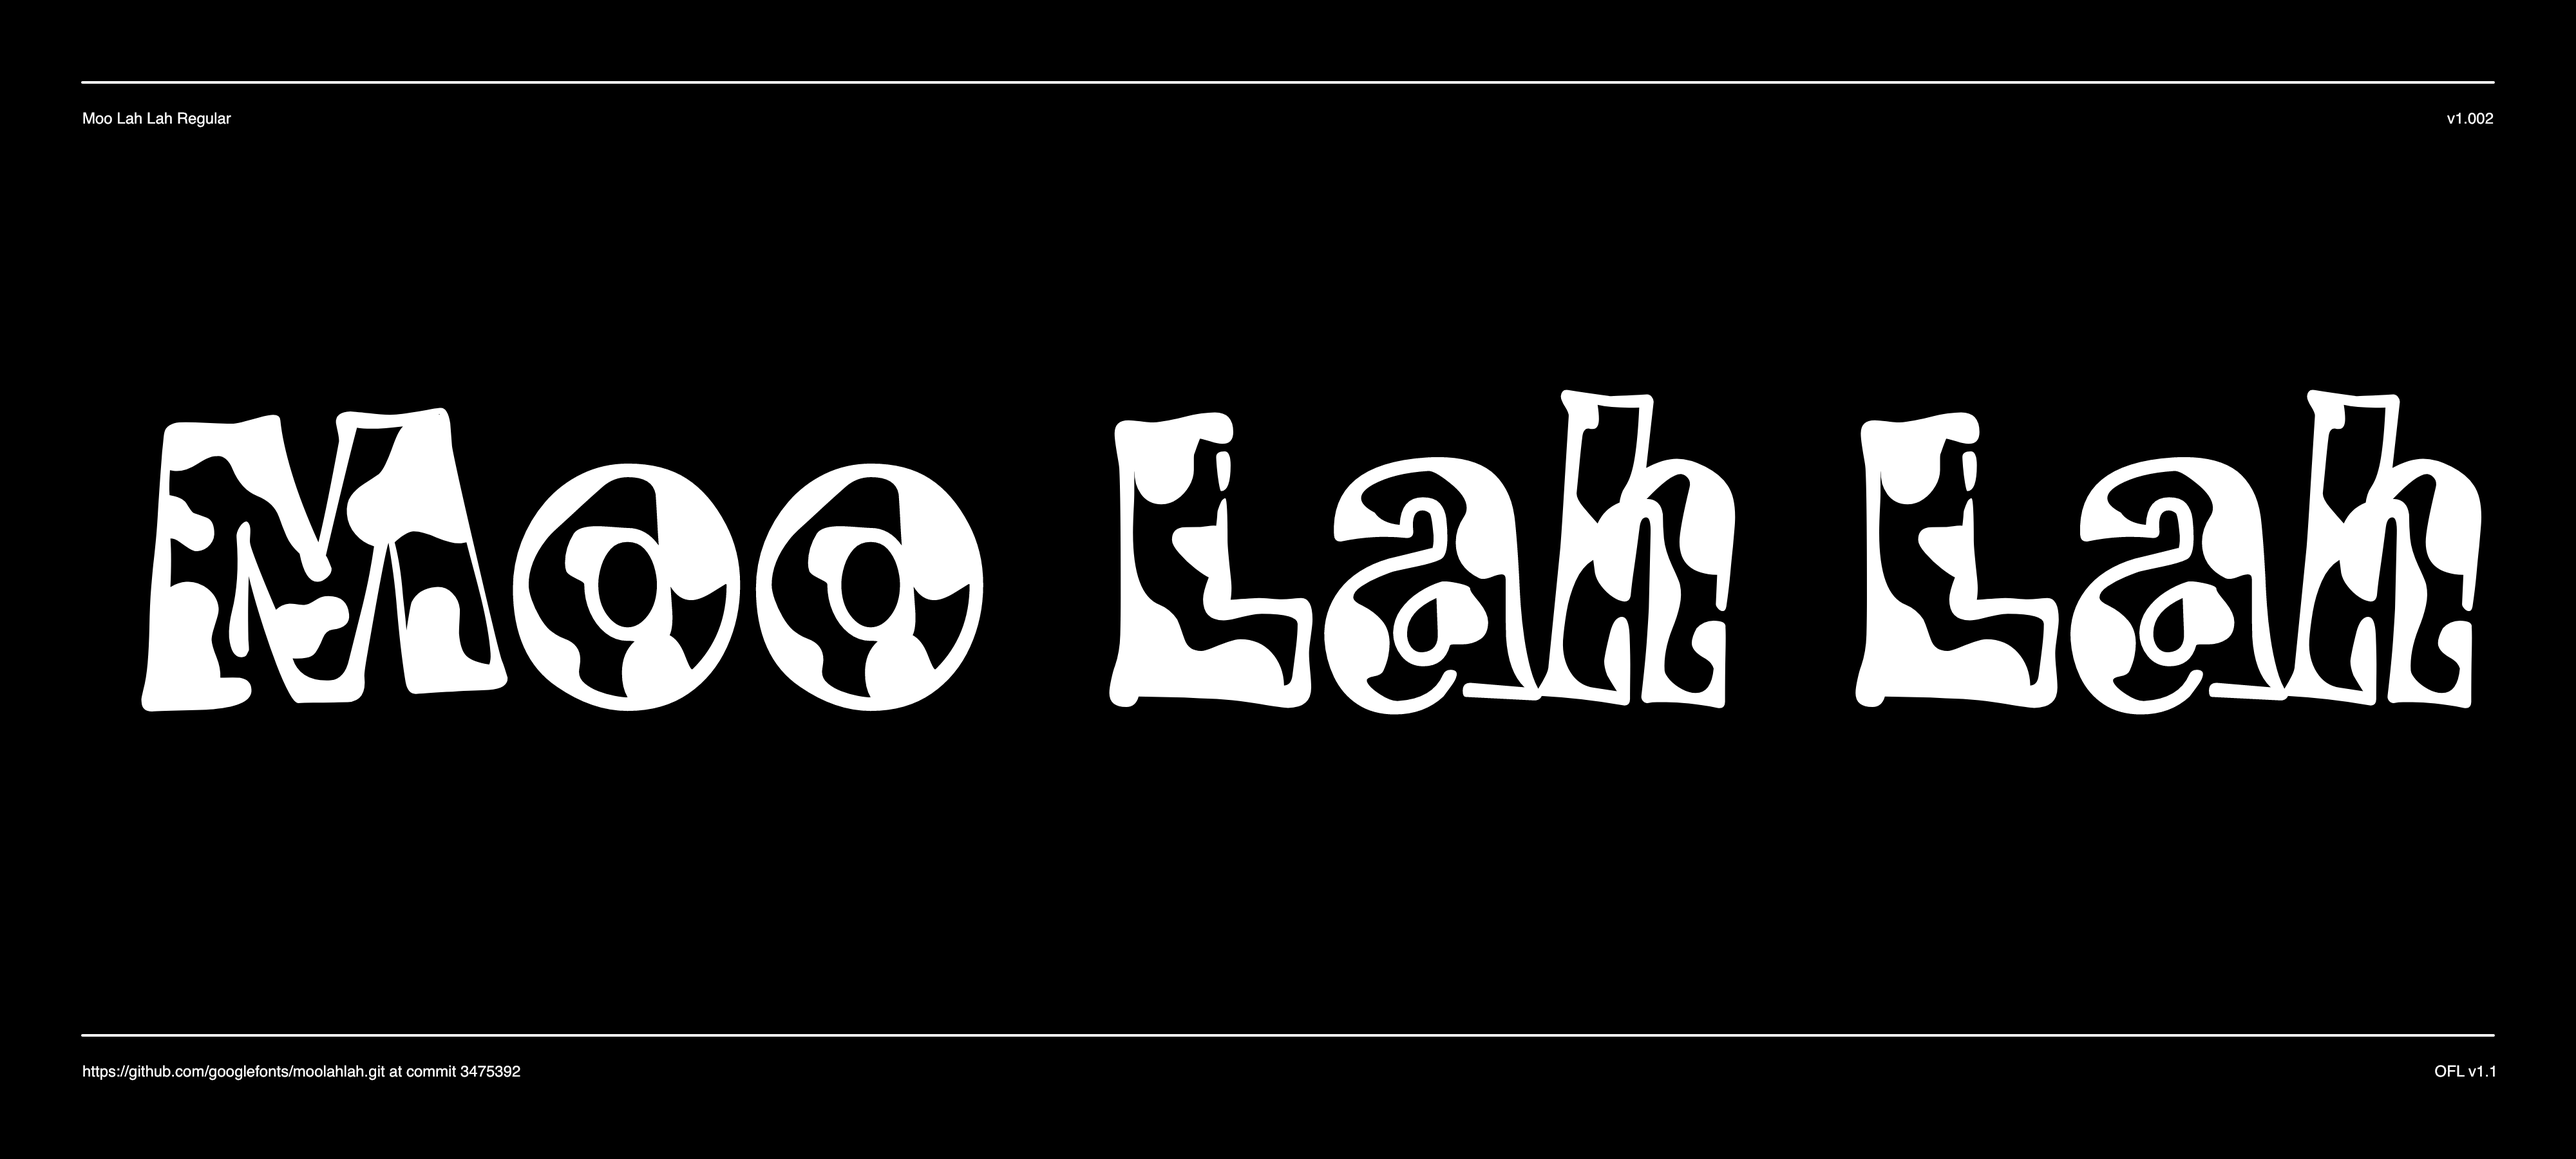
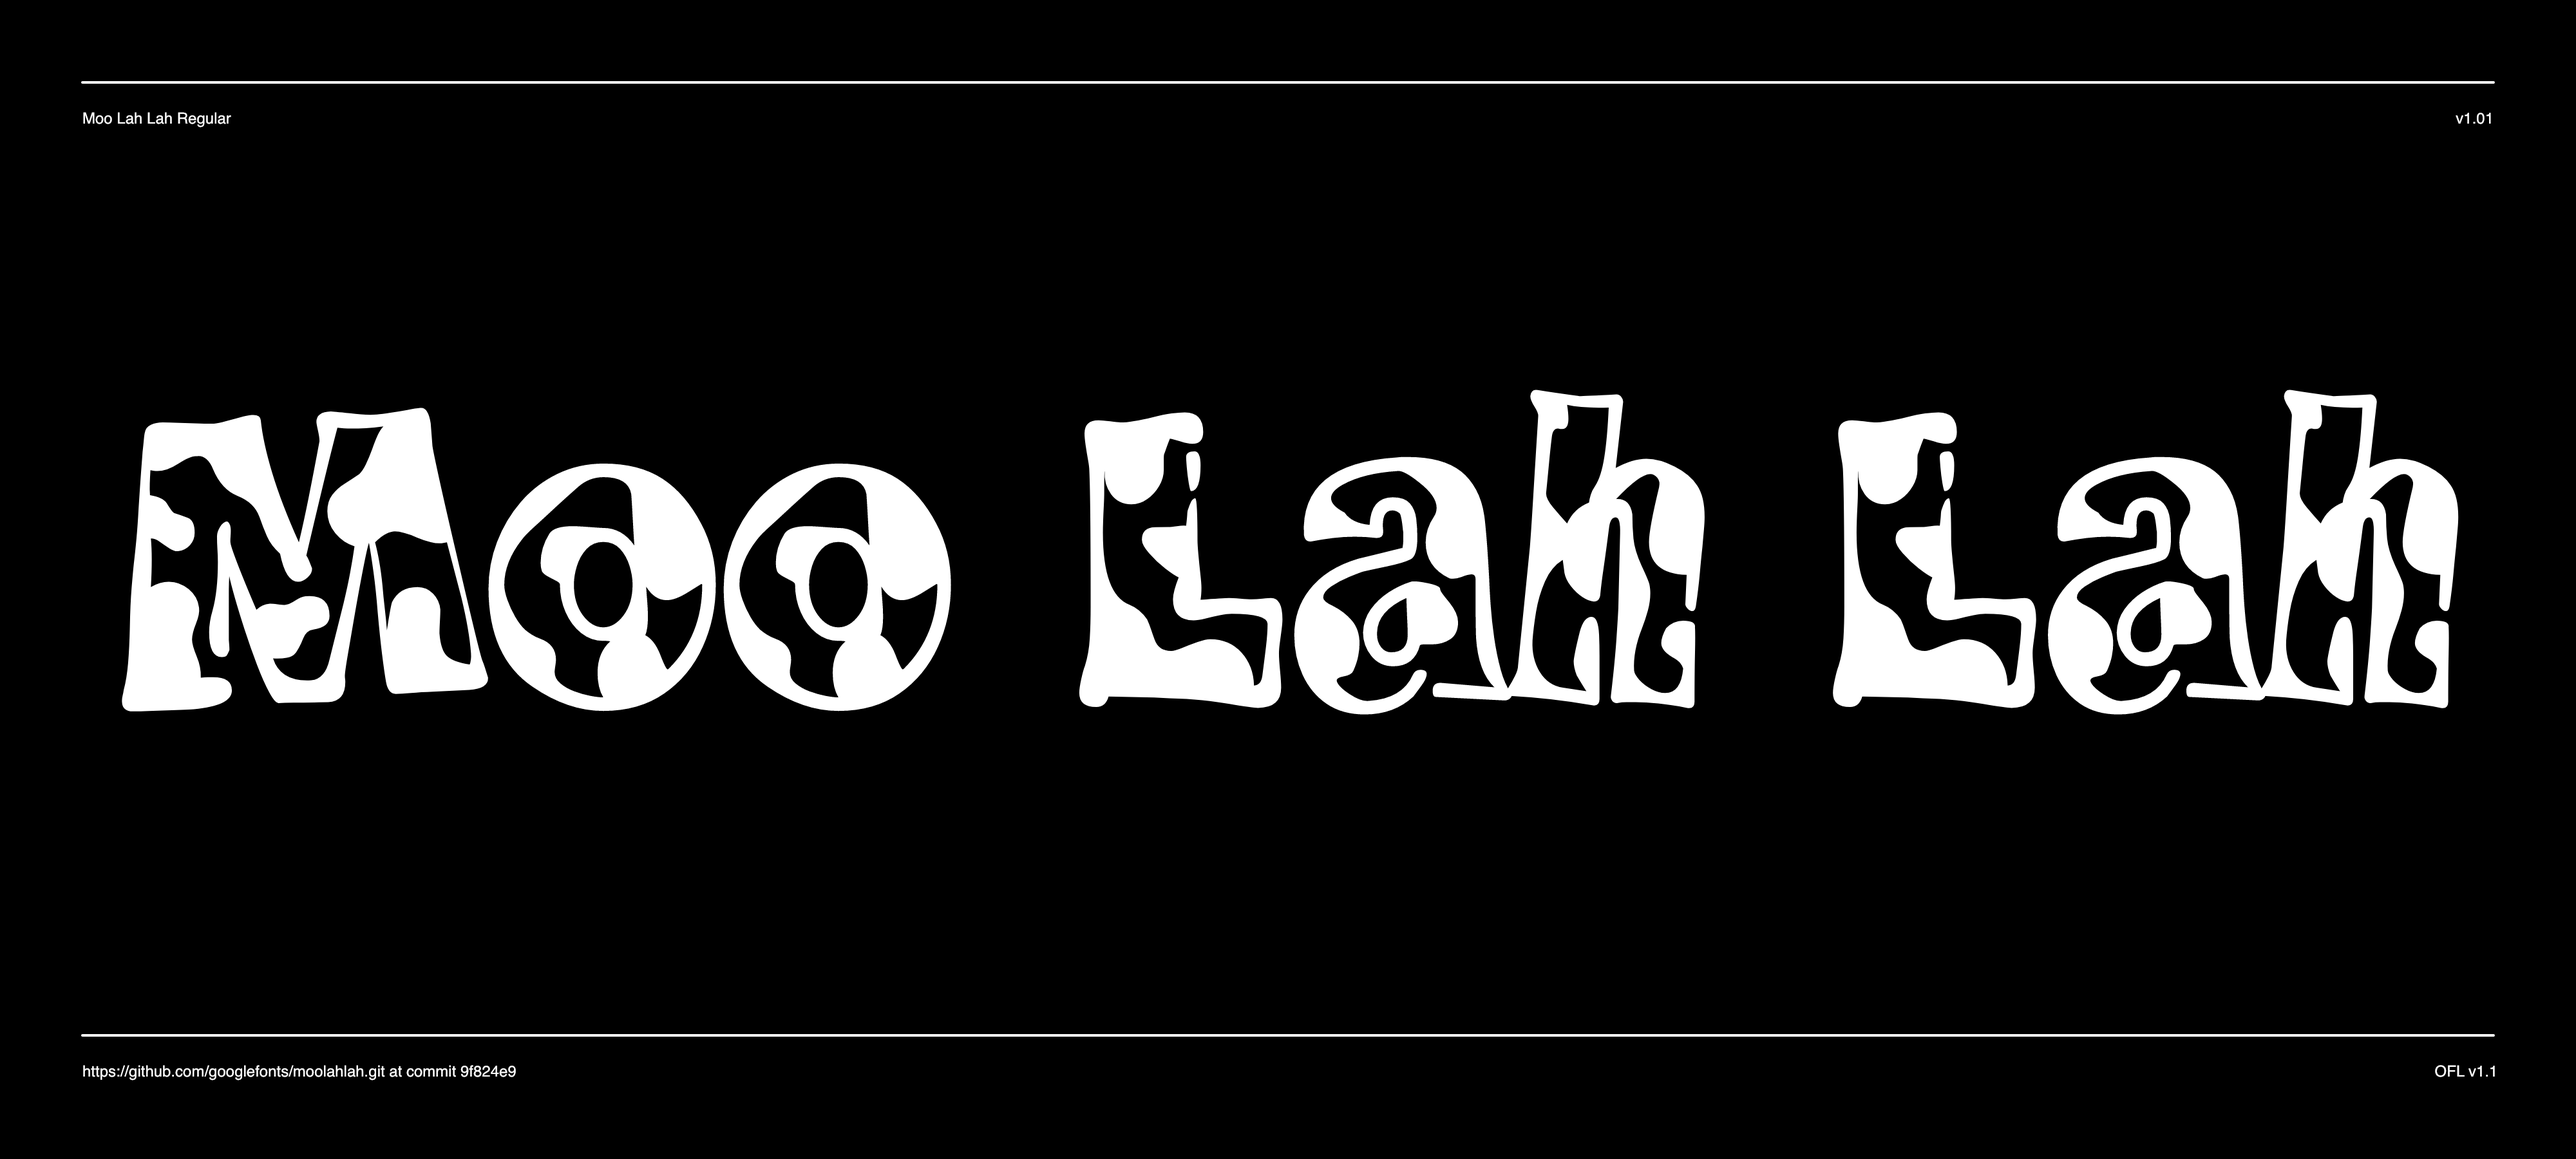
sample image updated

Changed region(s): [[0.0312, 0.3111, 0.9688, 0.6222]]

diff --git a/documentation/image1.py b/documentation/image1.py
@@ -22,7 +22,7 @@ AUXILIARY_FONT = "Helvetica"
 AUXILIARY_FONT_SIZE = 24
 BIG_TEXT = "Moo Lah Lah"
 BIG_TEXT_FONT_SIZE = 680
-BIG_TEXT_SIDE_MARGIN = MARGIN * 1.6
+BIG_TEXT_SIDE_MARGIN = MARGIN * 1.4
 BIG_TEXT_BOTTOM_MARGIN = MARGIN * 5.5
 GRID_VIEW = False # Change this to "True" for a grid overlay
 

diff --git a/README.md b/README.md
@@ -2,7 +2,7 @@
 
 Need a font with bovine fun? Moo Lah Lah has that look! 
 
-![Sample Image](Documentation/image1.png)
+![Sample Image](documentation/image1.png)
 
 ## Building the Fonts
 
